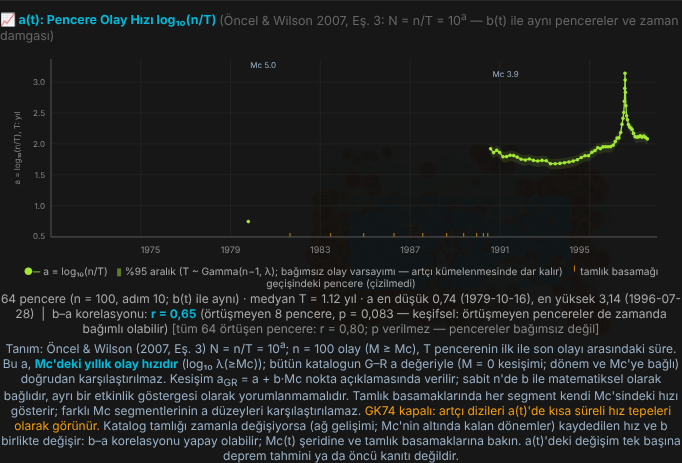
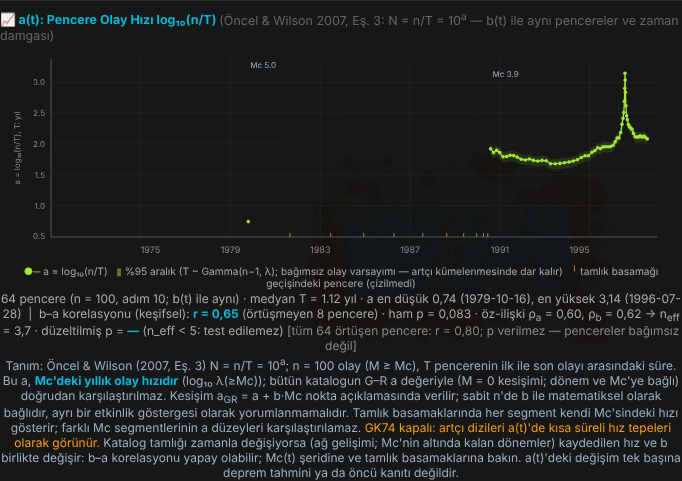
a(t): b–a korelasyonuna öz-ilişki düzeltmesi — ρ_a, ρ_b (gecikme-1, segment içi), n_eff = n(1 − ρ_aρ_b)/(1 + ρ_aρ_b) (Bartlett 1935), düzeltilmiş p; ham r ve ham p korunuyor, keşifsel
- Hata oranı (bağımsız AR(1), 3000 tekrar): ham %5–32, düzeltilmiş ≤ %5,1; güç küçük n_eff'te düşük (n = 22, φ = 0,8, gerçek r 0,5: %22)
- Türkiye 1971–1997: ham p 3,1e-6 → n_eff 5,8, düzeltilmiş p 0,075; basamaklı ve Marmara GK74: test edilemez (n_eff < 5)
- test_a_window.js 15/15, birim 15/15; kabul 27/27 (a(t), b(t), G–R önce = sonra). RAPOR güncelleme 4 §4.2; neff_guc.js

Claude-Session: https://claude.ai/code/session_01UNMkcWFv5QgcQmvZTMC63m

diff --git a/analysis/a_zaman/kabul_a.js b/analysis/a_zaman/kabul_a.js
@@ -4,7 +4,8 @@
 //             (C) Marmara (40–41,5° K / 26–31° D), EMSC 1998–2026, tek Mc (1999 İzmit ve Düzce artçıları dahil); (D) C + GK74 artçı ayıklama.
 // Denetimler: (1) b(t) grafiği ve metni, G–R metni önce = sonra; (2) a(t) pencere sayısı = b(t) pencere sayısı (karışık olanlar hariç),
 //   a = log₁₀(n/T) bağımsız hesapla aynı; (3) tamlık basamaklarında karışık pencere işaretli, segmentler Mc ile etiketli;
-//   (4) korelasyon yalnız örtüşmeyen pencerelerle p'li; tanım ve uyarı metinleri; (5) sayfa hatası yok. Ekran görüntüleri: a_tekMc.png, a_basamak.png, a_marmara.png
+//   (4) korelasyon yalnız örtüşmeyen pencerelerle p'li; tanım ve uyarı metinleri; (5) sayfa hatası yok;
+//   (6) öz-ilişki (ρ_a, ρ_b), n_eff ve düzeltilmiş p bağımsız hesapla aynı; ham p ve düzeltilmiş p birlikte metinde. Ekran görüntüleri: a_tekMc.png, a_basamak.png, a_marmara.png
 // Kullanım (depo kökünde): LEAFLET_DIR=<node_modules> node analysis/a_zaman/kabul_a.js <önceki_index.html>
 'use strict';
 const http = require('http'), fs = require('fs'), path = require('path');
@@ -41,7 +42,7 @@ window.__cs = steps => { csSteps = steps.map(([start, mc]) => ({ start, mc })); 
 window.__oku = () => ({ bSvg: document.getElementById('tmSvgB').innerHTML, bTxt: document.getElementById('tmStatsB').textContent, grTxt: document.getElementById('tmStatsGR').textContent,
   aTxt: document.getElementById('tmStatsA') ? document.getElementById('tmStatsA').textContent : null, aSvg: document.getElementById('tmSvgA') ? document.getElementById('tmSvgA').innerHTML : null,
   bN: lastBts ? lastBts.ser.length : null, bSer: lastBts ? lastBts.ser.map(q => ({ t: q.t, b: q.b, t0: q.t0, t1: q.t1 })) : null,
-  ats: typeof lastAts !== 'undefined' && lastAts ? { NW: lastAts.NW, step: lastAts.step, pts: lastAts.pts.map(q => ({ t: q.t, a: q.a, lo: q.lo, hi: q.hi, mc: q.mc, mixed: q.mixed, Tyr: q.Tyr, b: q.b })) } : null });
+  ats: typeof lastAts !== 'undefined' && lastAts ? { NW: lastAts.NW, step: lastAts.step, pts: lastAts.pts.map(q => ({ t: q.t, a: q.a, lo: q.lo, hi: q.hi, mc: q.mc, mixed: q.mixed, Tyr: q.Tyr, b: q.b })), corr: lastAts.corr || null } : null });
 `;
 const SEN = {
   tekMc:   { p: [1971, 1997], r: [36, 26, 42, 45], cs: null, png: 'a_tekMc.png' },
@@ -67,7 +68,8 @@ const SEN = {
   for (const k of Object.keys(SEN)) {
     const o = O[k], y = Y[k];
     ok(o.bSvg === y.bSvg && o.bTxt === y.bTxt && o.grTxt === y.grTxt, `(1) ${k}: b(t) grafiği, b(t) metni ve G–R metni önce = sonra`);
-    ok(o.aSvg === null && y.aSvg && y.aSvg.includes('<polyline'), `(1) ${k}: a(t) paneli önce yok, sonra çizildi`);
+    if (o.aSvg === null) ok(y.aSvg && y.aSvg.includes('<polyline'), `(1) ${k}: a(t) paneli önce yok, sonra çizildi`);
+    else ok(o.aSvg === y.aSvg && JSON.stringify(o.ats.pts) === JSON.stringify(y.ats.pts), `(1) ${k}: a(t) grafiği ve değerleri önce = sonra (yalnız korelasyon metni değişti)`);
     const pts = y.ats.pts, nOk = pts.filter(q => !q.mixed).length;
     ok(pts.length === y.bN, `(2) ${k}: a(t) pencere sayısı ${pts.length} = b(t) pencere sayısı ${y.bN} (çizilen ${nOk}, karışık ${pts.length - nOk})`);
     if (!SEN[k].cs) { let d = 0; y.bSer.forEach((q, i) => { const a = Math.log10(y.ats.NW / ((q.t1 - q.t0) / YR)); d = Math.max(d, Math.abs(a - pts[i].a)); });
@@ -81,7 +83,13 @@ const SEN = {
         const mx = x.reduce((a, c) => a + c, 0) / n, mz = z.reduce((a, c) => a + c, 0) / n; let sxz = 0, sxx = 0, szz = 0; for (let i = 0; i < n; i++) { sxz += (x[i] - mx) * (z[i] - mz); sxx += (x[i] - mx) ** 2; szz += (z[i] - mz) ** 2; } return { r: sxz / Math.sqrt(sxx * szz), n }; };
       const aA = ac(q => q.a), aB = ac(q => q.b); y.ac = { a: aA, b: aB };
       console.log(`     ${y === Y.tekMc ? 'tekMc' : y === Y.basamak ? 'basamak' : y === Y.marmara ? 'marmara' : 'marmara_gk74'}: örtüşmeyen pencerelerde gecikme-1 öz-ilişki: a ${aA ? aA.r.toFixed(2) + ' (' + aA.n + ' çift)' : '—'}, b ${aB ? aB.r.toFixed(2) + ' (' + aB.n + ' çift)' : '—'}`); }
-    const rm = y.aTxt.match(/r = (−?-?[\d,]+) \(örtüşmeyen (\d+) pencere, p = ([^)]+)\)/); console.log(`     ${k}: ${rm ? `r(b, a) = ${rm[1]}, örtüşmeyen ${rm[2]} pencere, p = ${rm[3]}` : 'korelasyon yok'}; a aralığı ${Math.min(...pts.filter(q => !q.mixed).map(q => q.a)).toFixed(2)}–${Math.max(...pts.filter(q => !q.mixed).map(q => q.a)).toFixed(2)}`);
+    { const c = y.ats.corr; if (c) {   // (6) n_eff ve düzeltilmiş p: test betiğindeki bağımsız öz-ilişki hesabıyla aynı mı; ham p korunuyor mu
+        const same = y.ac && y.ac.a && y.ac.b && Math.abs(c.rhoA - y.ac.a.r) < 1e-12 && Math.abs(c.rhoB - y.ac.b.r) < 1e-12;
+        const rho = Math.max(0, c.rhoA * c.rhoB), ne = Math.min(c.n, c.n * (1 - rho) / (1 + rho));
+        ok(same && Math.abs(c.neff - ne) < 1e-9 && /ham p = /.test(y.aTxt) && /düzeltilmiş p = /.test(y.aTxt) && /n\s*eff = /.test(y.aTxt),
+          `(6) ${k}: ρ_a = ${c.rhoA.toFixed(2)}, ρ_b = ${c.rhoB.toFixed(2)} (bağımsız hesapla aynı) → n_eff = ${c.neff.toFixed(1)}; ham p = ${c.pHam.toPrecision(2)}, düzeltilmiş p = ${c.pDuz === null ? '— (test edilemez)' : c.pDuz.toPrecision(2)}; ikisi de metinde`); }
+      else if (y.ac && (y.ac.a === null || y.ac.b === null)) ok(/düzeltilmiş p = —|örtüşmeyen pencere sayısı yetersiz/.test(y.aTxt), `(6) ${k}: öz-ilişki hesaplanamadı → düzeltilmiş p verilmedi`); }
+    const rm = y.aTxt.match(/r = (−?-?[\d,]+) \(örtüşmeyen (\d+) pencere\) · ham p = ([^·]+)·[^]*?düzeltilmiş p = ([^ (]+)/); console.log(`     ${k}: ${rm ? `r(b, a) = ${rm[1]}, örtüşmeyen ${rm[2]} pencere, ham p = ${rm[3].trim()}, düzeltilmiş p = ${rm[4]}` : 'korelasyon yok'}; a aralığı ${Math.min(...pts.filter(q => !q.mixed).map(q => q.a)).toFixed(2)}–${Math.max(...pts.filter(q => !q.mixed).map(q => q.a)).toFixed(2)}`);
   }
   { const y = Y.basamak, mixed = y.ats.pts.filter(q => q.mixed).length, mcs = [...new Set(y.ats.pts.filter(q => !q.mixed).map(q => q.mc))];
     ok(mixed > 0 && mcs.length === 2 && /Mc 5,0|Mc 5\.0/.test(y.aSvg) && /Mc 3,9|Mc 3\.9/.test(y.aSvg) && /tamlık basamağı geçişindeki pencere/.test(y.aTxt),
@@ -91,7 +99,7 @@ const SEN = {
     const izA = a.ats.pts.filter(q => q.t >= Date.UTC(1999, 7, 1) && q.t <= Date.UTC(2000, 11, 31)), izG = g.ats.pts.filter(q => q.t >= Date.UTC(1999, 7, 1) && q.t <= Date.UTC(2000, 11, 31));
     const mx = v => v.length ? Math.max(...v.map(q => q.a)) : null;
     ok(!/GK74 kapalı/.test(g.aTxt) && /GK74 artçı ayıklama açık/.test(g.aTxt) && g.ats.pts.length < a.ats.pts.length && mx(izG) !== null && mx(izG) < mx(izA) - 0.5,
-      `(4) Marmara GK74 açık: pencere ${a.ats.pts.length} → ${g.ats.pts.length}; 1999–2000 en yüksek a ${mx(izA).toFixed(2)} → ${mx(izG).toFixed(2)} (artçı tepesi büyük ölçüde kalkıyor); tüm seri en yüksek a ${ta.a.toFixed(2)} (${new Date(ta.t).toISOString().slice(0, 10)}) → ${tg.a.toFixed(2)} (${new Date(tg.t).toISOString().slice(0, 10)}); r(b, a) metni: ${(g.aTxt.match(/r = [^(]+\([^)]*\)/) || ['—'])[0]}`); }
+      `(4) Marmara GK74 açık: pencere ${a.ats.pts.length} → ${g.ats.pts.length}; 1999–2000 en yüksek a ${mx(izA).toFixed(2)} → ${mx(izG).toFixed(2)} (artçı tepesi büyük ölçüde kalkıyor); tüm seri en yüksek a ${ta.a.toFixed(2)} (${new Date(ta.t).toISOString().slice(0, 10)}) → ${tg.a.toFixed(2)} (${new Date(tg.t).toISOString().slice(0, 10)}); r(b, a) metni: ${(g.aTxt.match(/r = [^(]+\(örtüşmeyen[^)]*\)[^]*?düzeltilmiş p = [^ ]+/) || ['—'])[0]}`); }
   ok(!O.hatalar.length && !Y.hatalar.length, `(5) Sayfa hatası yok (önce ${O.hatalar.length}, sonra ${Y.hatalar.length})` + (Y.hatalar.length ? ': ' + Y.hatalar.join(' | ') : ''));
   const ozet = {}; for (const k of Object.keys(SEN)) ozet[k] = { metin: Y[k].aTxt, pencere: Y[k].ats.pts.length, gecikme1_oz_iliski: Y[k].ac || null };
   fs.writeFileSync(path.join(__dirname, 'kabul_sonuc.json'), JSON.stringify({ senaryolar: SEN, sonuc: ozet, denetimler: kayit, ozet: { pass, fail } }, null, 1));

diff --git a/index.html b/index.html
@@ -2910,6 +2910,19 @@ function aPearson(x, y) {
   const erfc = v => { const t = 1 / (1 + 0.5 * Math.abs(v)), e = t * Math.exp(-v * v - 1.26551223 + t * (1.00002368 + t * (0.37409196 + t * (0.09678418 + t * (-0.18628806 + t * (0.27886807 + t * (-1.13520398 + t * (1.48851587 + t * (-0.82215223 + t * 0.17087277))))))))); return v >= 0 ? e : 2 - e; };
   return { r, n, p: erfc(Math.abs(z) / Math.SQRT2) };
 }
+// Örtüşmeyen pencerelerin zamansal bağımlılığı (2026-10-31). Gecikme-1 öz-ilişki: aynı Mc segmentindeki ardışık örtüşmeyen pencere çiftleri
+// üzerinden Pearson (segmentler arası çift kurulmaz); en az 5 çift gerekir (aPearson ile aynı alt sınır). Etkin örneklem (Bartlett 1935; iki AR(1) serinin korelasyonu):
+// n_eff = n·(1 − ρ_a·ρ_b)/(1 + ρ_a·ρ_b), ρ_a·ρ_b < 0 ise 0 alınır (n_eff hiçbir zaman n'yi aşmaz). Düzeltilmiş p: Fisher z, √(n_eff − 3); n_eff < 5'te verilmez.
+function aLag1(segs, f) { const x = [], y = []; segs.forEach(v => { for (let i = 1; i < v.length; i++) { x.push(f(v[i - 1])); y.push(f(v[i])); } });
+  if (x.length < 5) return null; const r = aPearson(x, y); return r ? { r: r.r, n: x.length } : null; }
+function aNeffTest(r, n, rhoA, rhoB) {
+  if (rhoA === null || rhoB === null) return { neff: null, p: null, why: 'öz-ilişki için en az 5 ardışık örtüşmeyen pencere çifti gerekir' };
+  const rho = Math.max(0, rhoA * rhoB), neff = Math.min(n, n * (1 - rho) / (1 + rho));
+  if (neff < 5) return { neff, p: null, why: 'n_eff < 5: test edilemez' };
+  const z = Math.atanh(Math.max(-0.999999, Math.min(0.999999, r))) * Math.sqrt(neff - 3), v = Math.abs(z) / Math.SQRT2;
+  const t = 1 / (1 + 0.5 * v), e = t * Math.exp(-v * v - 1.26551223 + t * (1.00002368 + t * (0.37409196 + t * (0.09678418 + t * (-0.18628806 + t * (0.27886807 + t * (-1.13520398 + t * (1.48851587 + t * (-0.82215223 + t * 0.17087277)))))))));
+  return { neff, p: Math.min(1, e), why: null };
+}
 // a(t) noktaları: b(t) serisinden (aynı pencereler, aynı zaman damgası). Tamlık basamaklarında Mc'si karışık pencere (mcLo ≠ mcHi) çizilmez.
 function aSeriesFrom(series, NW, Mc, cs) {
   const Y = 365.25 * 864e5;
@@ -2953,14 +2966,18 @@ function renderAvalueTS(series, N, Mc, cs, t0, t1, NW, STEP) {
   svg.setAttribute('viewBox', `0 0 ${W} ${H}`); svg.innerHTML = body;
   // b–a ilişkisi. Ardışık pencereler ortak olay paylaşır (örtüşme NW − adım): bağımsızlık için yalnız örtüşmeyen pencereler (her ⌈NW/adım⌉'inci) kullanılır.
   // Tamlık basamaklarında yalnız aynı Mc segmenti içinde (farklı eşiklerin a'ları karşılaştırılamaz).
-  const k = Math.max(1, Math.ceil(NW / STEP)), xb = [], ya = []; segs.forEach(sg => { for (let i = 0; i < sg.p.length; i += k) { xb.push(sg.p[i].b); ya.push(sg.p[i].a); } });
+  const k = Math.max(1, Math.ceil(NW / STEP)), indSegs = segs.map(sg => sg.p.filter((q, i) => i % k === 0)), xb = [], ya = []; indSegs.forEach(v => v.forEach(q => { xb.push(q.b); ya.push(q.a); }));
   const rInd = aPearson(xb, ya), rAll = aPearson(ok.map(q => q.b), ok.map(q => q.a));
+  const acA = aLag1(indSegs, q => q.a), acB = aLag1(indSegs, q => q.b), nt = rInd ? aNeffTest(rInd.r, rInd.n, acA ? acA.r : null, acB ? acB.r : null) : null;
+  lastAts.corr = rInd ? { r: rInd.r, n: rInd.n, pHam: rInd.p, rhoA: acA ? acA.r : null, rhoB: acB ? acB.r : null, nCift: acA ? acA.n : 0, neff: nt.neff, pDuz: nt.p } : null;
+  const pf = v => v < 1e-3 ? v.toExponential(1).replace('.', ',') : v.toFixed(3).replace('.', ','), c2 = v => v.toFixed(2).replace('.', ',');
   const med = v => { const a = v.slice().sort((p, q) => p - q); return a[Math.floor(a.length / 2)]; };
   const aMin = ok.reduce((m, q) => q.a < m.a ? q : m), aMax = ok.reduce((m, q) => q.a > m.a ? q : m);
   const decl = typeof regionDeclusterOn !== 'undefined' && regionDeclusterOn && regionRect;
   st.innerHTML = `<div style="font-size:.85em;color:#aaa"><span style="color:${COL}">●─</span> a = log₁₀(n/T) &nbsp; <span style="color:${COL};opacity:.5">▮</span> %95 aralık (T ~ Gamma(n−1, λ); bağımsız olay varsayımı — artçı kümelenmesinde dar kalır) ${nMixed ? `&nbsp; <span style="color:#f59e0b">╵</span> tamlık basamağı geçişindeki pencere (çizilmedi)` : ''}</div>` +
     `<div style="margin-top:2px">${ok.length} pencere (n = ${NW}, adım ${STEP}; b(t) ile aynı) · medyan T = ${med(ok.map(q => q.Tyr)).toPrecision(3)} yıl · a en düşük ${fmt(aMin.a)} (${dstr(aMin.t)}), en yüksek ${fmt(aMax.a)} (${dstr(aMax.t)})` +
-    (rInd ? ` &nbsp;|&nbsp; b–a korelasyonu: <b>r = ${rInd.r.toFixed(2).replace('.', ',')}</b> (örtüşmeyen ${rInd.n} pencere, p = ${rInd.p < 1e-3 ? rInd.p.toExponential(1).replace('.', ',') : rInd.p.toFixed(3).replace('.', ',')} — keşifsel: örtüşmeyen pencereler de zamanda bağımlı olabilir)` : ' &nbsp;|&nbsp; b–a korelasyonu: örtüşmeyen pencere sayısı yetersiz') +
+    (rInd ? ` &nbsp;|&nbsp; b–a korelasyonu (keşifsel): <b>r = ${c2(rInd.r)}</b> (örtüşmeyen ${rInd.n} pencere) · ham p = ${pf(rInd.p)} · ` +
+      `<span title="Örtüşmeyen pencereler de zamanda bağımlıdır. ρ: aynı Mc segmentindeki ardışık örtüşmeyen pencerelerin gecikme-1 öz-ilişkisi. n_eff = n(1 − ρ_a·ρ_b)/(1 + ρ_a·ρ_b) (Bartlett 1935); düzeltilmiş p: Fisher z, √(n_eff − 3). Benzetimde (bağımsız AR(1) çiftleri) düzeltilmiş testin hata oranı %2,6–5,5, ham testin %5–31. Küçük n_eff'te güç düşüktür.">öz-ilişki ρ<sub>a</sub> = ${acA ? c2(acA.r) : '—'}, ρ<sub>b</sub> = ${acB ? c2(acB.r) : '—'} → n<sub>eff</sub> = ${nt.neff !== null ? nt.neff.toFixed(1).replace('.', ',') : '—'} · düzeltilmiş p = <b>${nt.p !== null ? pf(nt.p) : '—'}</b>${nt.why ? ` (${nt.why})` : ''}</span>` : ' &nbsp;|&nbsp; b–a korelasyonu: örtüşmeyen pencere sayısı yetersiz') +
     (rAll ? ` <span style="color:#888">[tüm ${rAll.n} örtüşen pencere: r = ${rAll.r.toFixed(2).replace('.', ',')}; p verilmez — pencereler bağımsız değil]</span>` : '') + `</div>` +
     `<div style="color:#9ab0c5;margin-top:2px">Tanım: Öncel &amp; Wilson (2007, Eş. 3) N = n/T = 10<sup>a</sup>; n = ${NW} olay (M ≥ Mc), T pencerenin ilk ile son olayı arasındaki süre. Bu a, <b>Mc'deki yıllık olay hızıdır</b> (log₁₀ λ(≥Mc)); bütün katalogun G–R a değeriyle (M = 0 kesişimi; dönem ve Mc'ye bağlı) doğrudan karşılaştırılmaz. ` +
       `Kesişim a<sub>GR</sub> = a + b·Mc nokta açıklamasında verilir; sabit n'de b ile matematiksel olarak bağlıdır, ayrı bir etkinlik göstergesi olarak yorumlanmamalıdır. ` +

diff --git a/scripts/test_a_window.js b/scripts/test_a_window.js
@@ -7,6 +7,7 @@
 //   4. a_GR = a + b·Mc kimliği; sabit n'de a_GR ile b'nin ilişkisi (hız sabitken bile güçlü korelasyon) — a_GR neden ayrı gösterge değil.
 //   5. b–a korelasyonu: H0 altında (sabit hız, sabit b) örtüşmeyen pencerelerle p < 0,05 oranı ≈ %5; örtüşen pencerelerin r dağılımı daha geniş.
 //   6. Tamlık basamakları: Mc'si karışık pencere işaretlenir, a hesaplanmaz.
+//   8. Öz-ilişki düzeltmesi (Bartlett n_eff): analitik değer; bağımsız AR(1) çiftlerinde ham ve düzeltilmiş testin hata oranı.
 //   7. Kümelenme (artçı benzeri): %95 aralık Poisson varsayımına dayanır; kümelenmiş süreçte uzun dönem hızı kapsama oranı düşer (ölçülür).
 // Kullanım (depo kökünde): node scripts/test_a_window.js [index.html]
 'use strict';
@@ -15,7 +16,7 @@ const src = fs.readFileSync(process.argv[2] || path.join(__dirname, '..', 'index
 const fn = name => { const i = src.indexOf('\nfunction ' + name + '('); if (i < 0) throw new Error('bulunamadı: ' + name);
   const j = src.slice(i + 1).search(/\n(?=[^\s}])/); return src.slice(i + 1, i + 2 + j); };
 const ctx = {}; vm.createContext(ctx);
-vm.runInContext(['aWinFields', 'aChi2Q', 'aWinValue', 'aPearson', 'aSeriesFrom'].map(fn).join('\n'), ctx);
+vm.runInContext(['aWinFields', 'aChi2Q', 'aWinValue', 'aPearson', 'aSeriesFrom', 'aLag1', 'aNeffTest'].map(fn).join('\n'), ctx);
 const X = ctx;
 let pass = 0, fail = 0;
 const ok = (c, m) => { if (c) pass++; else fail++; console.log((c ? '  ok  ' : '  !!  ') + m); };
@@ -95,5 +96,23 @@ console.log('\n7. Kümelenme: %95 aralığın Poisson varsayımı (uzun dönem h
     out.push([ad, cov / tot, tot]); }
   console.log(`     uzun dönem λ'yı kapsama: ${out.map(([a, c, n]) => `${a} %${(100 * c).toFixed(1)} (${n} pencere)`).join('; ')}`);
   ok(Math.abs(out[0][1] - 0.95) < 0.02 && out[1][1] < out[0][1] - 0.05 && out[2][1] < out[1][1], 'kümelenme arttıkça kapsama düşer: aralık yalnız Poisson (bağımsız olay) varsayımında %95; artçılar ayıklanmadıysa dar kalır'); }
+
+console.log('\n8. Öz-ilişki düzeltmesi (Bartlett n_eff)');
+{ const t = X.aNeffTest(0.79, 22, 0.73, 0.80);
+  ok(Math.abs(t.neff - 22 * (1 - 0.584) / (1 + 0.584)) < 1e-9 && Math.abs(t.p - 0.074) < 0.002, `n = 22, ρ_a = 0,73, ρ_b = 0,80, r = 0,79: n_eff = ${t.neff.toFixed(2)}, p = ${t.p.toFixed(3)} (raporla aynı: 5,8 ve ≈ 0,07)`);
+  ok(X.aNeffTest(0.5, 10, -0.5, 0.6).neff === 10 && X.aNeffTest(0.65, 8, 0.6, 0.62).p === null && X.aNeffTest(0.5, 10, null, 0.5).p === null, 'ρ_a·ρ_b < 0 → n_eff = n (şişirilmez); n_eff < 5 → p verilmez; öz-ilişki yoksa p verilmez');
+  const segs = [[{ a: 1 }, { a: 2 }, { a: 3 }], [{ a: 5 }, { a: 4 }, { a: 6 }, { a: 8 }]], l = X.aLag1(segs, q => q.a), l4 = X.aLag1([[{ a: 1 }, { a: 2 }, { a: 3 }], [{ a: 5 }, { a: 4 }, { a: 6 }]], q => q.a);
+  ok(l && l.n === 5 && l4 === null, 'aLag1: çiftler yalnız segment içinde (2 + 3 = 5 çift); 4 çiftte hesaplanmaz');
+  // Bağımsız iki AR(1) serisi (gerçek korelasyon 0): α = 0,05'te reddetme oranı
+  const rnd = rng(21), g = () => Math.sqrt(-2 * Math.log(1 - rnd())) * Math.cos(2 * Math.PI * rnd());
+  const ar = (n, f) => { const x = [g() / Math.sqrt(1 - f * f)]; for (let i = 1; i < n; i++) x.push(f * x[i - 1] + g()); return x; };
+  const sonuc = [];
+  for (const [n, f] of [[13, 0], [13, 0.8], [22, 0], [22, 0.8], [50, 0.8]]) { let ham = 0, duz = 0, test = 0; const R = 3000;
+    for (let i = 0; i < R; i++) { const x = ar(n, f), y = ar(n, f), seg = [x.map((v, j) => ({ a: v, b: y[j] }))], r = X.aPearson(x, y);
+      const ra = X.aLag1(seg, q => q.a), rb = X.aLag1(seg, q => q.b), t2 = X.aNeffTest(r.r, n, ra ? ra.r : null, rb ? rb.r : null);
+      if (r.p < 0.05) ham++; if (t2.p !== null) { test++; if (t2.p < 0.05) duz++; } }
+    sonuc.push([n, f, ham / R, duz / R, test / R]); }
+  console.log('     bağımsız AR(1) çiftleri (3000 tekrar): ' + sonuc.map(([n, f, h, d, tt]) => `n = ${n}, φ = ${f}: ham %${(100 * h).toFixed(1)}, düzeltilmiş %${(100 * d).toFixed(1)} (test edilebilen %${(100 * tt).toFixed(0)})`).join('; '));
+  ok(sonuc.every(([, , , d]) => d <= 0.065) && sonuc.filter(([, f]) => f === 0.8).every(([, , h]) => h > 0.15), 'düzeltilmiş testin hata oranı ≤ %6,5; φ = 0,8\'de ham test %15\'in üstünde sahte anlamlılık üretiyor'); }
 
 console.log(`\n${fail ? 'FAIL' : 'PASS'}: ${pass} geçti, ${fail} kaldı`); process.exit(fail ? 1 : 0);

diff --git a/analysis/a_zaman/neff_guc.js b/analysis/a_zaman/neff_guc.js
@@ -1,0 +1,13 @@
+// Düzeltilmiş b–a korelasyon testinin gücü (2026-10-31): ortak yenilikli iki AR(1) serisi; index.html'deki aPearson, aLag1, aNeffTest kullanılır.
+// Kullanım (depo kökünde): node analysis/a_zaman/neff_guc.js
+const fs = require('fs'), vm = require('vm'), src = fs.readFileSync('index.html', 'utf8');
+const fn = name => { const i = src.indexOf('\nfunction ' + name + '('); const j = src.slice(i + 1).search(/\n(?=[^\s}])/); return src.slice(i + 1, i + 2 + j); };
+const X = {}; vm.createContext(X); vm.runInContext(['aPearson', 'aLag1', 'aNeffTest'].map(fn).join('\n'), X);
+const rng = s => () => { s |= 0; s = s + 0x6D2B79F5 | 0; let t = Math.imul(s ^ s >>> 15, 1 | s); t = t + Math.imul(t ^ t >>> 7, 61 | t) ^ t; return ((t ^ t >>> 14) >>> 0) / 4294967296; };
+const rnd = rng(33), g = () => Math.sqrt(-2 * Math.log(1 - rnd())) * Math.cos(2 * Math.PI * rnd());
+// Gerçek korelasyon c: ortak yenilik e_ortak ile iki AR(1) serisi (aynı φ); süreçler arası korelasyon = c
+const cift = (n, f, c) => { const x = [], y = []; let px = 0, py = 0; for (let i = 0; i < n + 50; i++) { const e = g(), u = g(), v = g(); px = f * px + Math.sqrt(c) * e + Math.sqrt(1 - c) * u; py = f * py + Math.sqrt(c) * e + Math.sqrt(1 - c) * v; if (i >= 50) { x.push(px); y.push(py); } } return [x, y]; };
+for (const [n, f] of [[13, 0.5], [22, 0.5], [22, 0.8], [50, 0.8]]) for (const c of [0.5, 0.8]) { let ham = 0, duz = 0; const R = 3000;
+  for (let i = 0; i < R; i++) { const [x, y] = cift(n, f, c), seg = [x.map((v, j) => ({ a: v, b: y[j] }))], r = X.aPearson(x, y), ra = X.aLag1(seg, q => q.a), rb = X.aLag1(seg, q => q.b), t = X.aNeffTest(r.r, n, ra ? ra.r : null, rb ? rb.r : null);
+    if (r.p < 0.05) ham++; if (t.p !== null && t.p < 0.05) duz++; }
+  console.log(`n = ${n}, φ = ${f}, gerçek korelasyon ${c}: güç ham %${(100 * ham / R).toFixed(1)}, düzeltilmiş %${(100 * duz / R).toFixed(1)}`); }

diff --git a/analysis/a_zaman/RAPOR.md b/analysis/a_zaman/RAPOR.md
@@ -1,6 +1,10 @@
-# a(t) paneli — pencere olay hızı (2026-10-31, güncelleme 3)
+# a(t) paneli — pencere olay hızı (2026-10-31, güncelleme 4)
 
-Dal: `a-zaman-paneli`, `main` 89cacdb'den açıldı. `main`'e birleştirilmedi; bilimsel inceleme bekliyor.
+Panel `main`'de (fbe343a, 31 Ekim). Güncelleme 4 (öz-ilişki düzeltmesi) ayrı dalda: `a-neff`, `main` 5274c46'dan açıldı, birleştirilmedi.
+
+**Güncelleme 4'te eklenenler** (`a-neff` dalı; ChatGPT önerisi 1):
+- Panelde ham r ve ham p korunuyor; yanlarına öz-ilişki (ρ_a, ρ_b), etkin örneklem n_eff ve düzeltilmiş p eklendi. Hepsi "keşifsel" etiketli.
+- Yöntem, varsayımlar, hata oranı ve güç §4.2'de.
 
 **Güncelleme 3'te eklenenler** (ChatGPT incelemesinin üç noktası):
 - **Aralık ifadesi:** "Kesin %95" yalnızca Poisson varsayımı altında geçerli. GK74 açıkken de kalan olayların bağımsız olduğu garanti edilmiyor (§1.2).
@@ -120,7 +124,65 @@ Etkin örneklem: n_eff = n(1 − ρ_a·ρ_b)/(1 + ρ_a·ρ_b) (Bartlett 1935; ik
 
 Paneldeki p bu yüzden keşifseldir.
 
-**Öneri (ayrı iş):** Panelde n_eff'i ve düzeltilmiş p'yi doğrudan göstermek ya da eğilimi çıkarılmış (birinci fark) serilerde korelasyon vermek. Bu bir hesap değişikliği olduğundan bu dala katılmadı.
+**Güncelleme 4:** n_eff ve düzeltilmiş p panele eklendi (§4.2). Eğilimi çıkarılmış (birinci fark) serilerde korelasyon hâlâ öneri olarak duruyor.
+
+### 4.2 Öz-ilişki düzeltmesi: yöntem, varsayımlar, güvenilirlik (güncelleme 4)
+
+**Tanım:**
+1. Örtüşmeyen pencereler: her ⌈n_pencere/adım⌉'ıncı pencere, yalnızca aynı Mc segmenti içinde.
+2. Bu pencerelerin a ve b serilerinden r = Pearson(b, a); ham p, n pencereyle Fisher z: z = atanh(r)·√(n − 3).
+3. Gecikme-1 öz-ilişki ρ_a ve ρ_b: aynı segmentteki ardışık çiftler (a_i, a_{i+1}) üzerinden Pearson; segmentler arası çift kurulmaz; en az 5 çift.
+4. Etkin örneklem (Bartlett 1935; iki öz-ilişkili seri arasındaki korelasyonun varyansı için):
+
+```
+n_eff = n · (1 − ρ_a·ρ_b) / (1 + ρ_a·ρ_b)
+```
+
+   ρ_a·ρ_b < 0 ise 0 alınır; n_eff hiçbir zaman n'yi aşmaz.
+5. Düzeltilmiş p: aynı Fisher z ile, √(n_eff − 3) kullanılarak. n_eff < 5 ise verilmez ("test edilemez").
+
+**Varsayımlar:**
+- İki seri de AR(1) benzeri öz-ilişki taşır; yalnızca gecikme-1 kullanılır. Daha uzun bellek varsa n_eff yüksek kalır ve p iyimser olur.
+- Seriler durağandır. Ortak eğilim (ör. tamlık değişimi) varsa ρ yüksek çıkar ve düzeltme bunu kısmen yakalar, ama eğilimin nedenini ayırmaz.
+- Fisher z normal yaklaşımıdır. Benzetimde t testiyle farkı ≤ 0,2 puan; ham p ile tutarlı olsun diye Fisher z seçildi.
+- ρ kısa serilerden kestirilir ve aşağı yanlıdır. Yanlılık düzeltmesi (ρ + (1+4ρ)/n) denendi; testi gereksiz tutucu yaptığı için uygulanmadı (hata oranı %0,4–2,5).
+
+**Hata oranı** (`test_a_window.js` test 8): iki bağımsız AR(1) serisi, yani gerçek korelasyon 0; 3000 tekrar, α = 0,05.
+
+| n | φ | ham test | düzeltilmiş test | test edilebilen |
+|---|---|---|---|---|
+| 13 | 0 | %5,1 | %4,2 | %100 |
+| 13 | 0,8 | %21,8 | %3,1 | %81 |
+| 22 | 0 | %5,6 | %5,1 | %100 |
+| 22 | 0,8 | %26,9 | %2,5 | %92 |
+| 50 | 0,8 | %31,7 | %3,2 | %100 |
+
+Düzeltilmiş test nominal düzeyi aşmıyor; ham test öz-ilişkide %32'ye kadar sahte anlamlılık üretiyor.
+
+**Güç** (gerçek korelasyon var; `neff_guc.js` benzetimi, 3000 tekrar):
+
+| n | φ | gerçek korelasyon | ham | düzeltilmiş |
+|---|---|---|---|---|
+| 13 | 0,5 | 0,5 | %45 | %32 |
+| 22 | 0,5 | 0,5 | %65 | %52 |
+| 22 | 0,8 | 0,5 | %64 | **%22** |
+| 22 | 0,8 | 0,8 | %97 | %70 |
+| 50 | 0,8 | 0,5 | %84 | %50 |
+
+(Ham testin "gücü", aynı zamanda yüksek sahte anlamlılık oranı demektir; doğrudan karşılaştırılamaz.)
+
+**Yorum:** Küçük n_eff'te düzeltilmiş test tutucu ve düşük güçlüdür. Türkiye 1971–1997'deki koşullarda (n = 22, ρ ≈ 0,75) orta düzey bir gerçek korelasyonu (0,5) yakalama olasılığı yaklaşık %22. Bu yüzden düzeltilmiş p'nin anlamlı çıkmaması (0,075) ilişkinin **olmadığını göstermez**; yalnızca bu veriyle **gösterilemediğini** söyler. Sonuç "keşifsel" etiketiyle sunulur.
+
+**Kabul testi** (`kabul_a.js`, önce = main 5274c46): **27/27**.
+- a(t) grafiği ve değerleri önce = sonra; b(t) ve G–R metni önce = sonra.
+- ρ_a, ρ_b ve n_eff bağımsız hesapla aynı.
+
+| Senaryo | r | ham p | ρ_a | ρ_b | n_eff | düzeltilmiş p |
+|---|---|---|---|---|---|---|
+| Türkiye 1971–1997, tek Mc | 0,79 | 3,1e−6 | 0,73 | 0,80 | 5,8 | **0,075** |
+| Aynı, basamaklı | 0,65 | 0,083 | 0,60 | 0,62 | 3,7 | test edilemez |
+| Marmara, GK74 kapalı | −0,05 | 0,86 | 0,51 | 0,62 | 6,8 | 0,92 |
+| Marmara, GK74 açık | 0,71 | 0,13 | 0,84 | 0,44 | 2,8 | test edilemez |
 
 ## 5. a–b ilişkisini karıştırabilecek etkenler
 
@@ -131,7 +193,7 @@ Paneldeki p bu yüzden keşifseldir.
 | Tamlık değişimi | Mc'nin altında kalan dönemde kaydedilen hız ve b birlikte düşer; yapay pozitif korelasyon oluşur | Uyarı metni; tamlık basamaklarıyla segmentlere bölme; Türkiye 1971–1997'de r 0,79 → 0,65 (anlamlı değil) |
 | Mc basamakları | Farklı eşiklerin hızları karşılaştırılamaz | Karışık pencere çizilmez; korelasyon segment içinde |
 | Artçı dizileri | Hız tepeleri oluşur; aralık dar kalır (test 7) | GK74 uyarısı; Marmara'da GK74 açılınca İzmit tepesi 3,76 → 1,50 |
-| Örtüşmeyen pencerelerin öz-ilişkisi | Eğilimler p'yi iyimser yapar (§4.1: Türkiye 3e−6 → ≈ 0,07) | p "keşifsel" etiketli; n_eff düzeltmesi önerildi |
+| Örtüşmeyen pencerelerin öz-ilişkisi | Eğilimler p'yi iyimser yapar (§4.1: Türkiye 3e−6 → 0,075) | Ham p ile birlikte n_eff ve düzeltilmiş p; "keşifsel" (§4.2) |
 | Büyüklük ölçeği / dönüşüm değişimi (ör. ISC → EMSC, Scordilis dönüşümü) | Ölçek değişirse Mc'deki hız ve b kayar; a(t) ve b(t) değişimleri doğrudan fiziksel değişim olarak yorumlanamaz | İleriki çalışma; Mc(t) şeridi ve büyüklük türü tanısıyla birlikte değerlendirilmeli |
 
 ## 6. Gözlemler (yorum değil)
